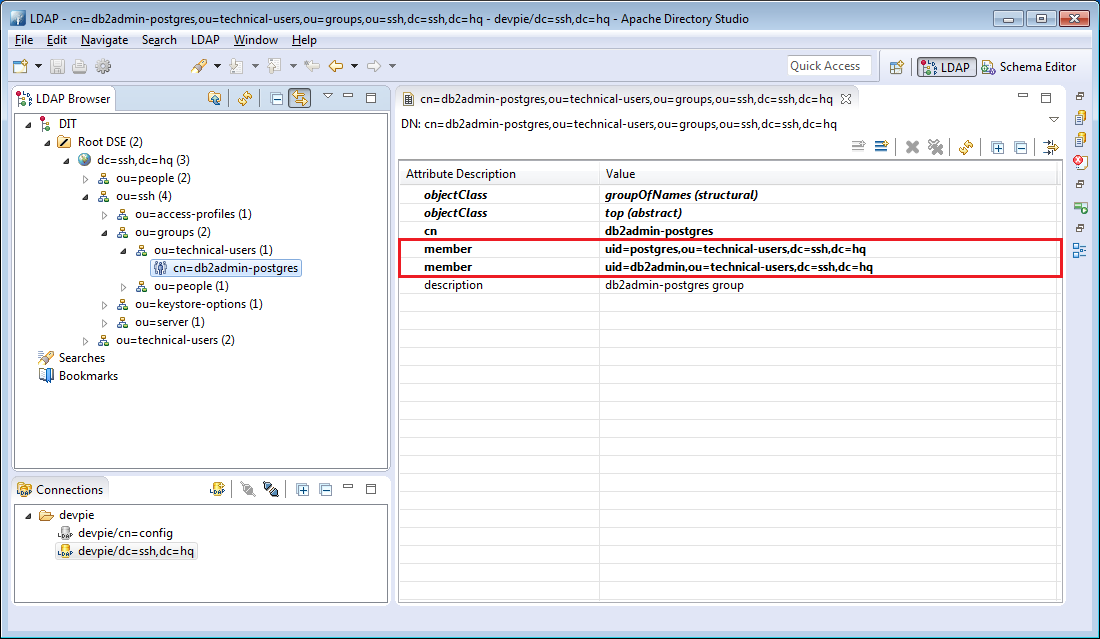
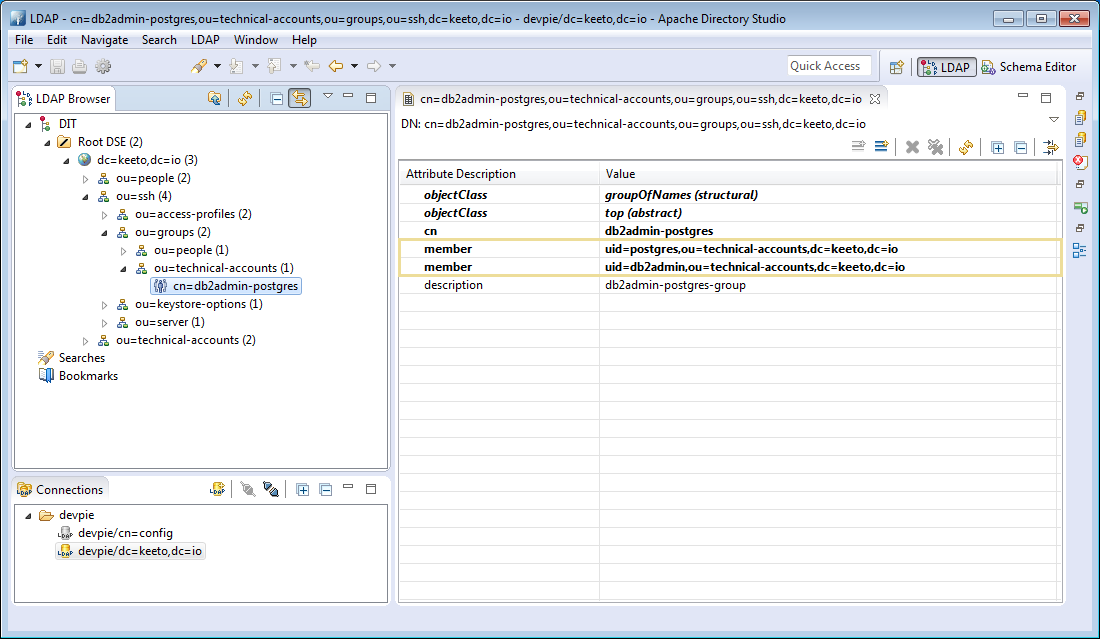
Update from master branch

diff --git a/webroot/index.html b/webroot/index.html
@@ -122,7 +122,7 @@
 						<li>
 							<img src="/static/img/examples-dap-1.png" class="img-responsive">
 							<p class="text-center top-buffer">
-								All users that should have access to an OpenSSH server need an entity with a uid and certificate set. This is supposed to be already part of the DIT and managed by another application.
+								All users that should have access to an OpenSSH server need an entity with a uid and certificate set. This is supposed to be already part of the DIT and managed by the PKI.
 							</p>
 						</li>
 						<li>
@@ -152,7 +152,7 @@
 						<li>
 							<img src="/static/img/examples-dap-6.png" class="img-responsive">
 							<p class="text-center top-buffer">
-								Every protocol that relies on SSH for authentication can be used. Here SFTP is used for file transfer.
+								Every protocol that relies on SSH for authentication can be used. Here SFTP is used for secure file transfer.
 							</p>
 						</li>
 					</ul>
@@ -164,19 +164,19 @@
 						<li>
 							<img src="/static/img/examples-aobp-1.png" class="img-responsive">
 							<p class="text-center top-buffer">
-								In this example another user 'keeto-test-user' is provided access to an OpenSSH server.
+								In this example another user 'keeto' is provided access to an OpenSSH server.
 							</p>
 						</li>
 						<li>
 							<img src="/static/img/examples-aobp-2.png" class="img-responsive">
 							<p class="text-center top-buffer">
-								As an access on behalf profile is used technical accounts need to be present that can be used on behalf. Those accounts only need to have a uid.
+								As an access on behalf profile is used technical accounts need to be present a user can use on behalf. Those accounts only need to have a uid.
 							</p>
 						</li>
 						<li>
 							<img src="/static/img/examples-aobp-3.png" class="img-responsive">
 							<p class="text-center top-buffer">
-								Another technical account someone can use on his behalf.
+								Another technical account a user can use on behalf.
 							</p>
 						</li>
 						<li>
@@ -188,7 +188,7 @@
 						<li>
 							<img src="/static/img/examples-aobp-5.png" class="img-responsive">
 							<p class="text-center top-buffer">
-								A group with technical accounts is created. In terms of <em>keeto</em> this is called a target keystore.
+								A group with technical accounts is created. In terms of <em>Keeto</em> this is called a target keystore.
 							</p>
 						</li>
 						<li>
@@ -212,13 +212,13 @@
 						<li>
 							<img src="/static/img/examples-aobp-9.png" class="img-responsive">
 							<p class="text-center top-buffer">
-								'keeto-test-user' is now able to login on behalf of the technical account 'db2admin'.
+								The user 'keeto' is now able to login on behalf of the technical account 'db2admin'.
 							</p>
 						</li>
 						<li>
 							<img src="/static/img/examples-aobp-10.png" class="img-responsive">
 							<p class="text-center top-buffer">
-								'sebastian-test-user' is able to login on behalf of the technical account 'postgres'.
+								'sebastian' is able to login on behalf of the technical account 'postgres'.
 							</p>
 						</li>
 					</ul>

diff --git a/webroot/static/js/keeto.min.js b/webroot/static/js/keeto.min.js
@@ -1,1 +1,1 @@
-$(document).ready(function(){$('a[href^="#scroll_"]').on("click",function(a){a.preventDefault();var b=139,c=this.hash,d=$(c),e=d.offset().top-b;$("html,body").stop().animate({scrollTop:e},1500)}),$("#ls-header").lightSlider({item:1,loop:!0,keyPress:!1,auto:!0,slideMove:1,controls:!0,easing:"cubic-bezier(0.25, 0, 0.25, 1)",speed:1800,pause:1e4}),$("#examples-slider-dap").lightSlider({item:1,loop:!0,keyPress:!1,slideMove:1,controls:!0,easing:"cubic-bezier(0.25, 0, 0.25, 1)",speed:600}),$("#examples-slider-aobp").lightSlider({item:1,loop:!0,keyPress:!1,slideMove:1,controls:!0,easing:"cubic-bezier(0.25, 0, 0.25, 1)",speed:600}),$(document).on("scroll",function(){0!=$(".navbar .navbar-nav .active").not(".logo").length||$("#navbar").hasClass("showBorder")||$("#navbar").addClass("showBorder")}),$('[data-spy="scroll"]').on("activate.bs.scrollspy",function(a){$("#navbar").hasClass("showBorder")&&$(".navbar .navbar-nav .active").not(".logo").length>0&&$("#navbar").removeClass("showBorder")})});
+$(document).ready(function(){$('a[href^="#scroll_"]').on("click",function(a){a.preventDefault();var b=139,c=this.hash,d=$(c),e=d.offset().top-b;$("html,body").stop().animate({scrollTop:e},1500)}),$("#ls-header").lightSlider({item:1,loop:!0,keyPress:!1,auto:!0,slideMove:1,controls:!0,easing:"cubic-bezier(0.25, 0, 0.25, 1)",speed:1800,pause:1e4}),$("#examples-slider-dap").lightSlider({item:1,loop:!0,keyPress:!1,slideMove:1,controls:!0,easing:"cubic-bezier(0.25, 0, 0.25, 1)",speed:1200}),$("#examples-slider-aobp").lightSlider({item:1,loop:!0,keyPress:!1,slideMove:1,controls:!0,easing:"cubic-bezier(0.25, 0, 0.25, 1)",speed:1200}),$(document).on("scroll",function(){0!=$(".navbar .navbar-nav .active").not(".logo").length||$("#navbar").hasClass("showBorder")||$("#navbar").addClass("showBorder")}),$('[data-spy="scroll"]').on("activate.bs.scrollspy",function(a){$("#navbar").hasClass("showBorder")&&$(".navbar .navbar-nav .active").not(".logo").length>0&&$("#navbar").removeClass("showBorder")})});

diff --git a/js/frontend.js b/js/frontend.js
@@ -31,7 +31,7 @@ $(document).ready(function() {
 		slideMove: 1,
 		controls: true,
 		easing: 'cubic-bezier(0.25, 0, 0.25, 1)',
-		speed: 600
+		speed: 1200
 	});
 
 	$('#examples-slider-aobp').lightSlider({
@@ -41,7 +41,7 @@ $(document).ready(function() {
 		slideMove: 1,
 		controls: true,
 		easing: 'cubic-bezier(0.25, 0, 0.25, 1)',
-		speed: 600
+		speed: 1200
 	});
 
 	$(document).on('scroll', function() {

diff --git a/webroot/static/js/keeto.js b/webroot/static/js/keeto.js
@@ -31,7 +31,7 @@ $(document).ready(function() {
 		slideMove: 1,
 		controls: true,
 		easing: 'cubic-bezier(0.25, 0, 0.25, 1)',
-		speed: 600
+		speed: 1200
 	});
 
 	$('#examples-slider-aobp').lightSlider({
@@ -41,7 +41,7 @@ $(document).ready(function() {
 		slideMove: 1,
 		controls: true,
 		easing: 'cubic-bezier(0.25, 0, 0.25, 1)',
-		speed: 600
+		speed: 1200
 	});
 
 	$(document).on('scroll', function() {
